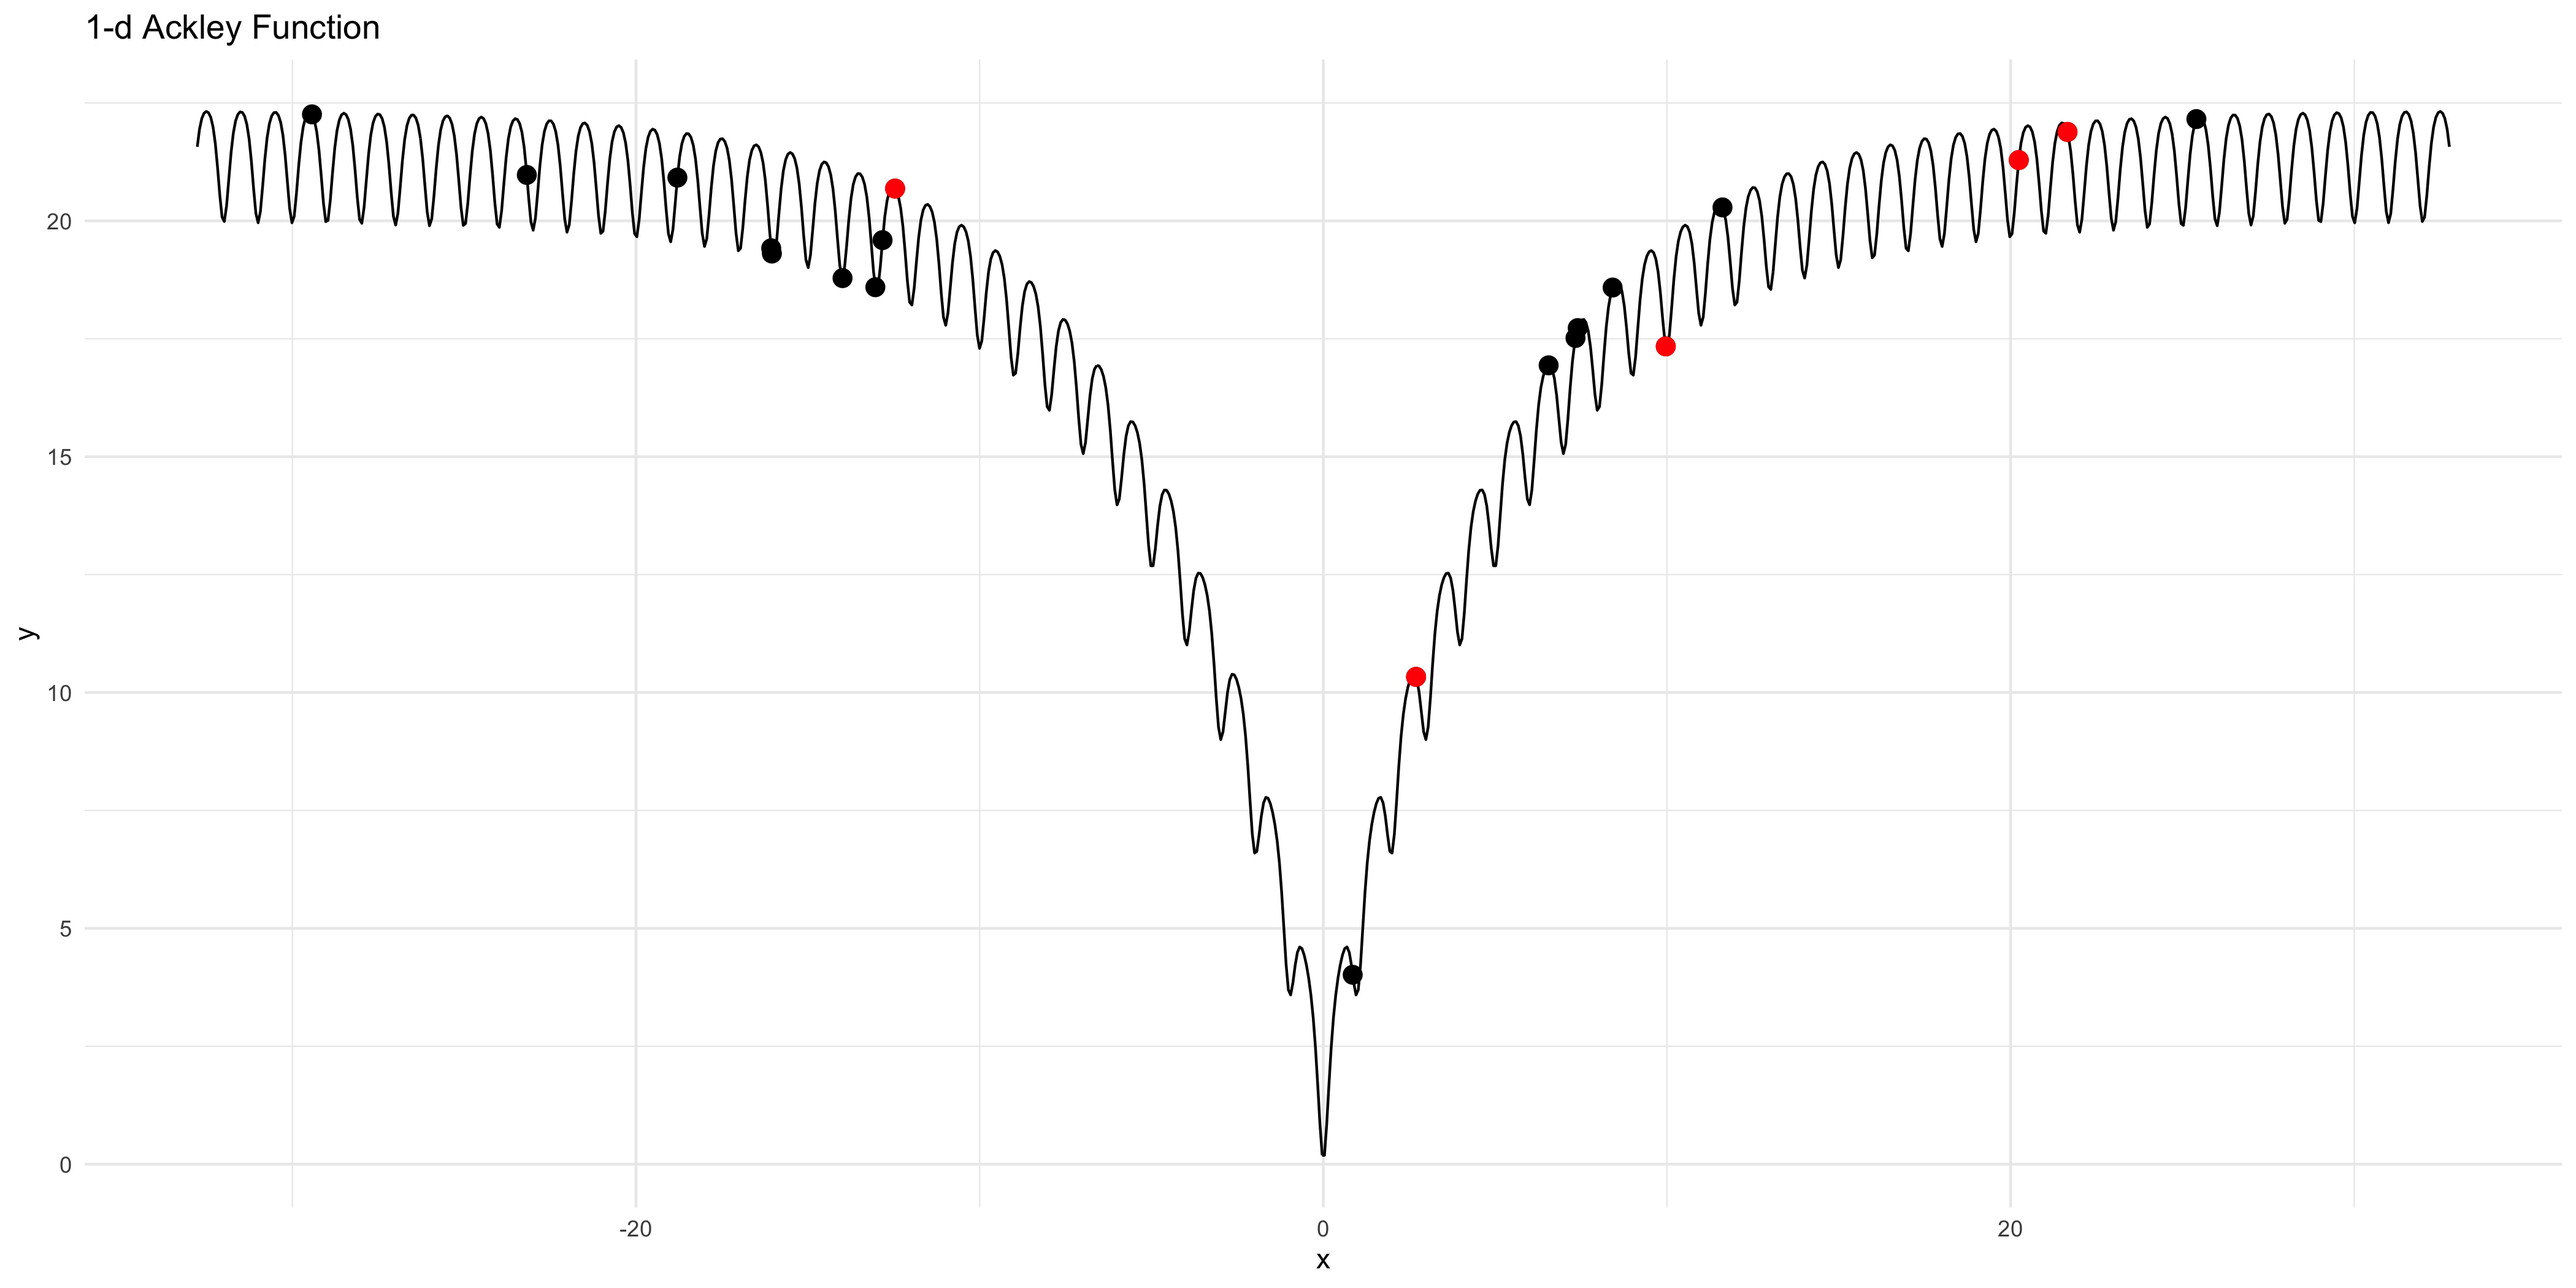
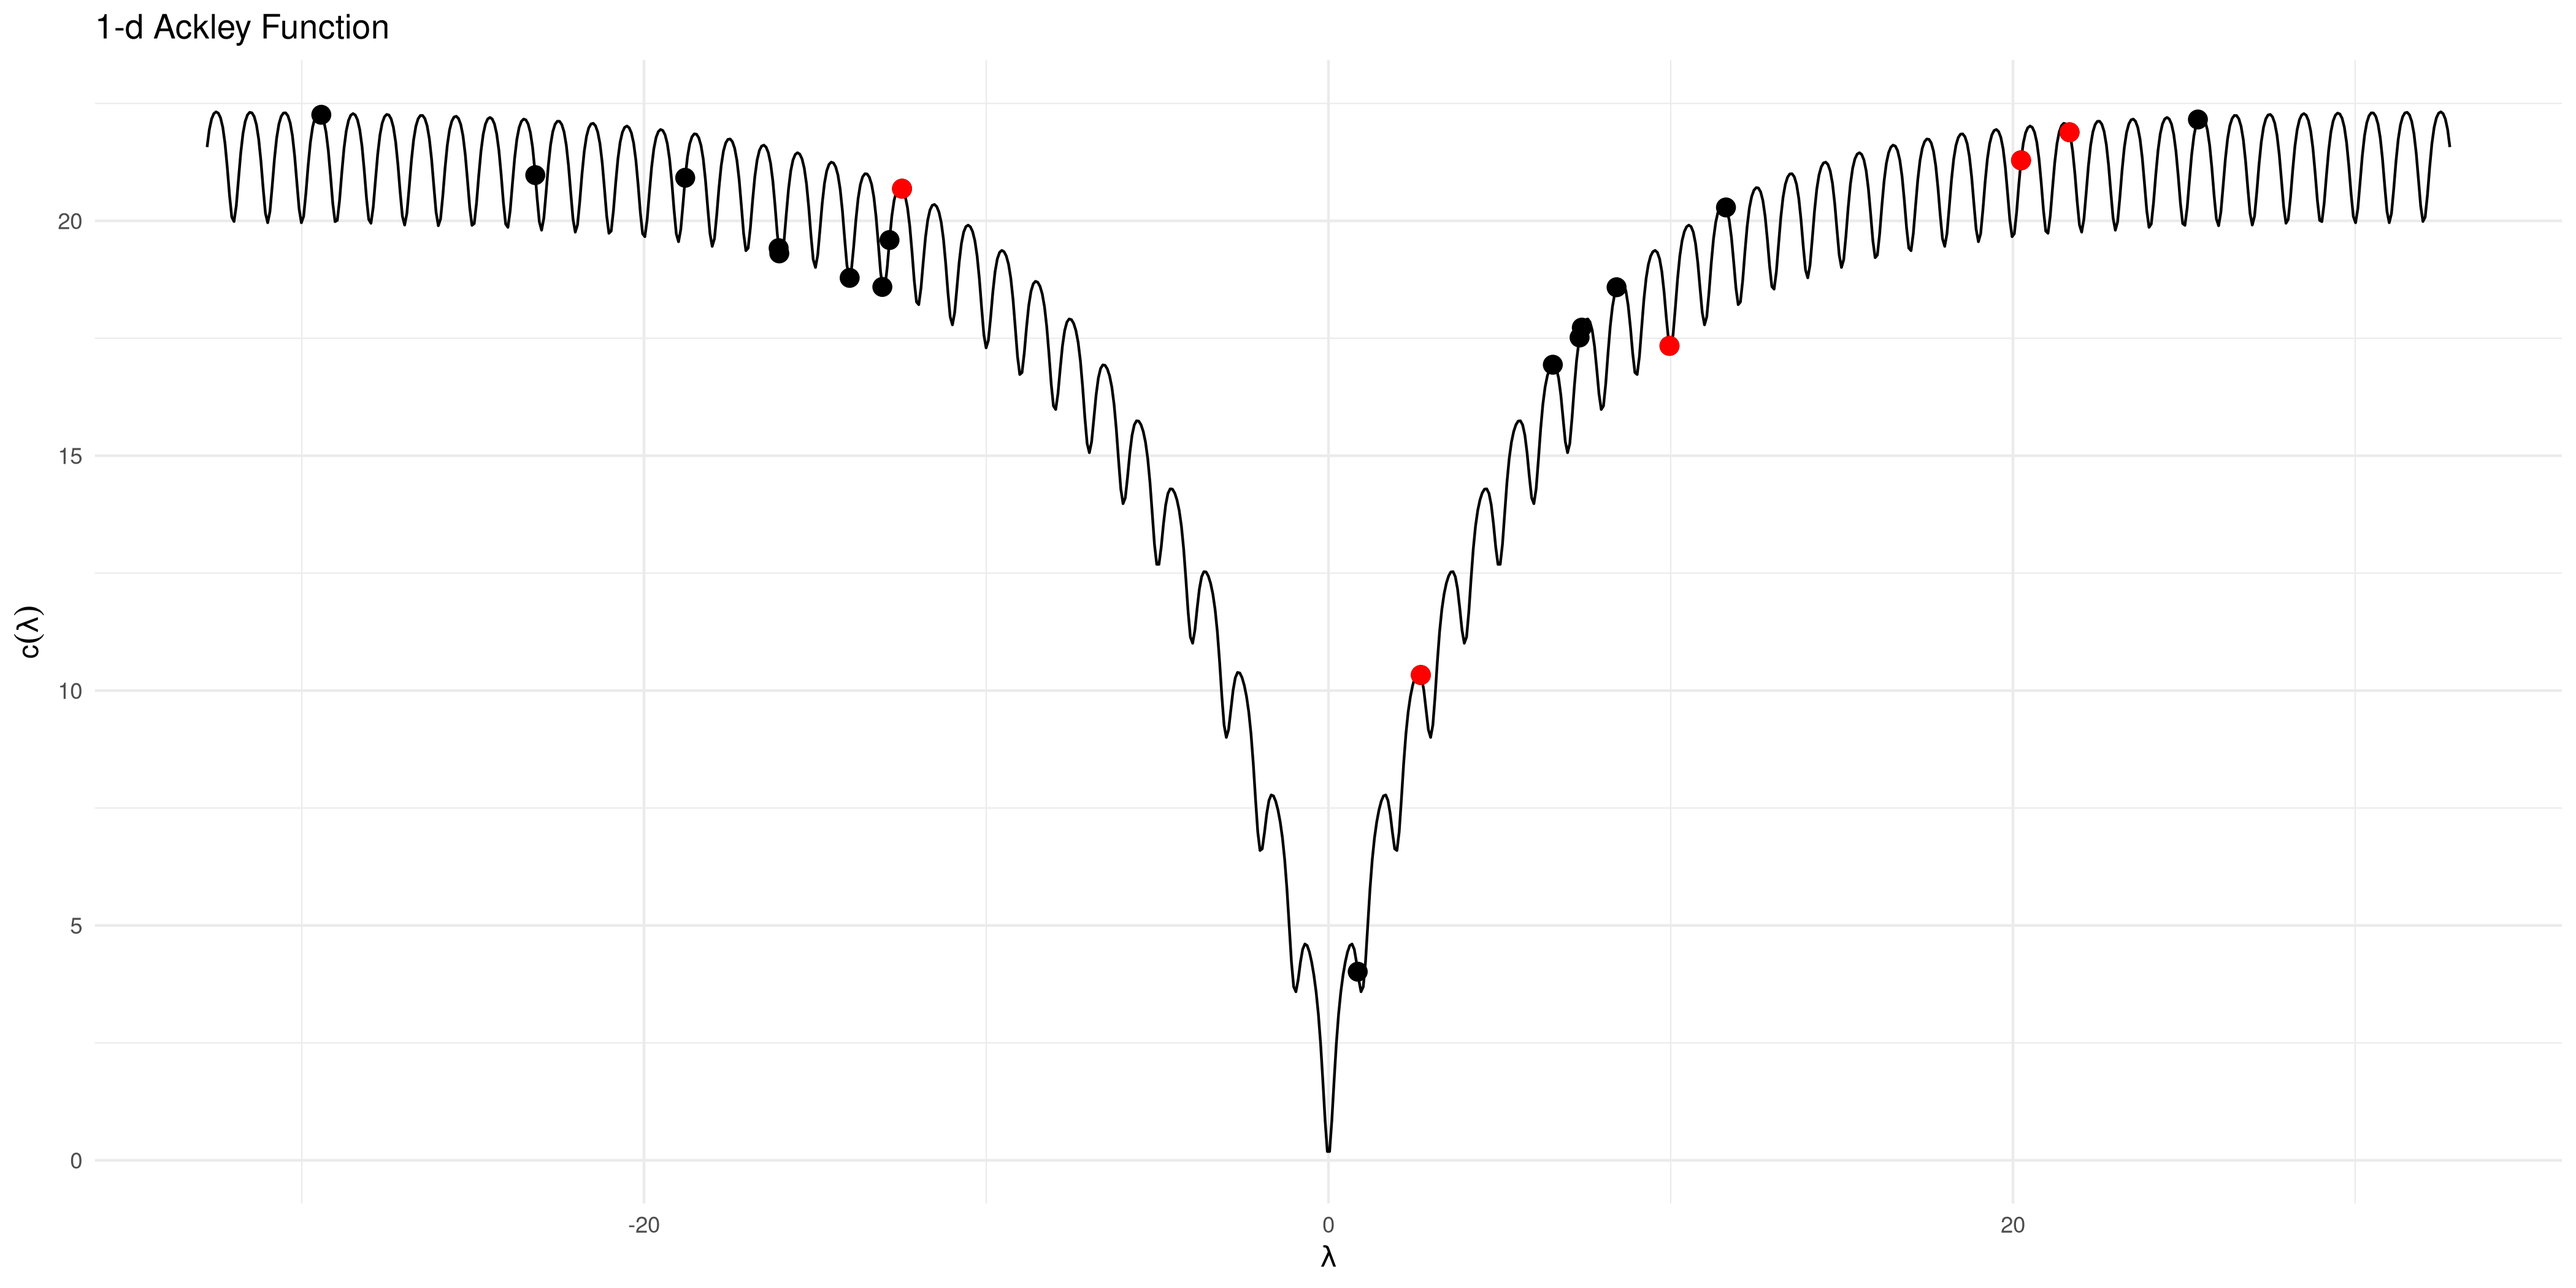
notation lambda

diff --git a/w04_hpo_basics/t04_hpo.tex b/w04_hpo_basics/t04_hpo.tex
@@ -4,6 +4,12 @@
 \newcommand{\inducer}{\mathcal{I}}
 \newcommand{\R}{\mathds{R}}
 
+%The following might look confusing but allows us to switch the notation of the optimization problem independently from the notation of the hyper parameter optimization
+\newcommand{\xx}{\conf} %x of the optimizer
+\newcommand{\xxi}[1][i]{\lambda_{#1}} %i-th component of xx (not confuse with i-th individual)
+\newcommand{\XX}{\Lambda} %search space / domain of f
+\newcommand{\f}{\cost} %objective function
+
 \newenvironment{blocki}[1] % itemize block
 {
  \begin{block}{#1}\begin{itemize}
@@ -43,7 +49,7 @@
 \begin{itemize}
 \item Given a dataset, we want to train a classification tree.
 \item We feel that a maximum tree depth of $4$ has worked out well for us previously, so we decide to set this hyperparameter to $4$.
-\item The learner ("inducer") $\inducer$ takes the input data, internally performs \textbf{empirical risk minimization}, and returns a fitted tree model $\fh(\mathbf{x}) = f(\x, \hat{\theta})$ of at most depth $\lambda = 4$ that minimizes the empirical risk.
+\item The learner ("inducer") $\inducer$ takes the input data, internally performs \textbf{empirical risk minimization}, and returns a fitted tree model $\fh(\x) = f(\x, \hat{\theta})$ of at most depth $\lambda = 4$ that minimizes the empirical risk.
 \end{itemize}
 
 % FIGURE SOURCE: https://docs.google.com/presentation/d/14xwcs5zncTjFL4hIHAprjZMmyGIPqk5vs8DS32vEAvQ/edit?usp=sharing
@@ -58,7 +64,7 @@
 \begin{itemize}
 \item We are \textbf{actually} interested in the \textbf{generalization performance} $GE\left(\fh\right)$ of the estimated model on new, previously unseen data.
 \item We estimate the generalization performance by evaluating the model $\fh$ on a test set $\datasettest$: $$
-\widehat{GE}_{\datasettest}\left(\fh\right) = \frac{1}{|\datasettest|} \sum\limits_{(\x, y) \in \datasettest} L\left(y, \fh(\mathbf{x}) \right)
+\widehat{GE}_{\datasettest}\left(\fh\right) = \frac{1}{|\datasettest|} \sum\limits_{(\x, y) \in \datasettest} L\left(y, \fh(\x) \right)
 $$
 \end{itemize}
 \vspace*{-0.6cm}
@@ -571,14 +577,14 @@ HP combinations on a multi-dimensional discretized grid
 \begin{tabular}{ c | c }
 \textbf{Definition} & \textbf{Correspondence} \\[0.05cm]
 \hline \\[0.01cm]
-solution candidate $\x\in \mathcal{S}$ & Chromosome of an individual \\[0.1cm]
-$\x_i$& $i$-th gene of chromosome\\[0.1cm]
+solution candidate $\xx \in \XX$ & Chromosome of an individual \\[0.1cm]
+$\xxi$& $i$-th gene of chromosome\\[0.1cm]
 Set of solution candidates $\mathcal{P}$ & Population \\[0.1cm]
-Objective function $f: \mathcal{S} \to \R$ & Fitness function
+Objective function $\f: \XX \to \R$ & Fitness function
 \end{tabular}
 \end{center}
 
-For hyperparameter optimization a solution candidate is a hyperparmeter configuration $\conf$ and the objective function is $\widehat{GE}_{\datasettest}\left(\inducer(\datasettrain, \conf)\right)$
+For hyperparameter optimization a solution candidate is a hyperparmeter configuration $\conf$ and the objective function is $\f(\xx) = \widehat{GE}_{\datasettest}\left(\inducer(\datasettrain, \xx)\right)$
 
 \end{frame}
 
@@ -640,9 +646,9 @@ These are demonstrated using the one-dimensional Ackley function, which we want 
 
 \vspace{0.5cm}
 
-In this case, each individual has exactly one chromosome. The chromosome is (obviously) encoded as a real number: $x_i \in \R$.
+In this case, each individual has exactly one chromosome. The chromosome is (obviously) encoded as a real number: $\xx_i \in \R$.
 
-Usually for the optimization of a function $f:\R^n \to \R$ individuals are coded as real vectors $\x_i \in \R^n$.
+Usually for the optimization of a function $\f:\R^n \to \R$ individuals are coded as real vectors $\xx_i \in \R^n$.
 
 
 \framebreak
@@ -659,7 +665,7 @@ Usually for the optimization of a function $f:\R^n \to \R$ individuals are coded
 
 \begin{frame}{Step 1: Initialize population}
 
-We start with a randomly selected population $\mathcal{P} = \{\x_1, ..., \x_\mu\}$ of the size $\mu = 20$ and rate it. The fitness function in this case is the function we want to minimize.
+We start with a randomly selected population $\mathcal{P} = \{\xx_1, ..., \xx_\mu\}$ of the size $\mu = 20$ and rate it. The fitness function in this case is the function we want to minimize.
 
 
 \begin{center}
@@ -674,18 +680,33 @@ We start with a randomly selected population $\mathcal{P} = \{\x_1, ..., \x_\mu\
 \begin{frame}[containsverbatim,allowframebreaks]{Step 2: Parent selection}
 
 
-In the first step of an iteration, $\lambda$ parents are chosen, who create offspring in the next step. %FIXME: JR: lambda is HP configuration! double notation
+In the first step of an iteration, $\lambda$ parents are chosen, who create offspring in the next step. 
 
-Possibilities for selection of parents:
-\begin{itemize}
-\item \textbf{Neutral selection: }choose individual with a probability $1/\mu$.
-\item \textbf{Fitness-proportional selection: }draw individuals with probability proportional to their fitness.
-\item \textbf{Tournament Selection: }randomly select $k$ individuals for a "Tournament Group". Of the drawn individuals, the best one (with the highest fitness value) is then chosen. In order to draw $\lambda$ individuals, the procedure must be performed $\lambda$-times.
-\end{itemize}
-\vspace*{-0.2cm}
-\begin{figure}
-\includegraphics[width = 7cm, height = 2.5cm ]{images/tournament_selection.png}
-\end{figure}
+\begin{footnotesize}
+    \textbf{Note:} Do not confuse the hyperparameters setting $\conf$ (bold) with the EA parameter $\lambda$.    
+\end{footnotesize}
+
+\begin{columns}
+\begin{column}{0.5\textwidth}
+  
+  Possibilities for selection of parents:
+
+  \begin{itemize}
+    \item \textbf{Neutral selection: }choose individual with a probability $1/\mu$.
+    \item \textbf{Fitness-proportional selection: }draw individuals with probability proportional to their fitness.
+  \end{itemize}
+\end{column}%
+\begin{column}{0.5\textwidth}
+  \begin{itemize}
+    \item \textbf{Tournament Selection: }randomly select $k$ individuals for a "Tournament Group". Of the drawn individuals, the best one (with the highest fitness value) is then chosen. In order to draw $\lambda$ individuals, the procedure must be performed $\lambda$-times.
+  \end{itemize}
+
+  \begin{figure}
+    \includegraphics[width = \linewidth]{images/tournament_selection.png}
+  \end{figure}
+
+\end{column}
+\end{columns}
 
 \framebreak
 
@@ -714,25 +735,25 @@ Recombination and mutation are not always performed both, sometimes only recombi
 
 \begin{frame}{Recombination for numeric representations}
 
-Two individuals $\x, \tilde\x \in \R^n$ in numerical representation can be recombined as follows:
+Two individuals $\xx, \tilde\xx \in \R^n$ in numerical representation can be recombined as follows:
 
 \begin{itemize}
 \item \textbf{Uniform crossover}: choose gene $i$ with probability $p$ of 1st parent and probability $1-p$ of 2nd parent.
-\item \textbf{Intermediate recombination}: new individual is created from the mean value of two parents $\frac{1}{2}(\x + \tilde\x)$
+\item \textbf{Intermediate recombination}: new individual is created from the mean value of two parents $\frac{1}{2}(\xx + \tilde\xx)$
 \item \textbf{Simulated Binary Crossover (SBX)}: generate \textbf{two offspring} based on
 
 $$
-\bar\x \pm \frac{1}{2} \beta (\tilde\x - \x)
+\bar\xx \pm \frac{1}{2} \beta (\tilde\xx - \xx)
 $$
 
-with $\bar\x = \frac{1}{2} (\x + \tilde\x)$.
+with $\bar\xx = \frac{1}{2} (\xx + \tilde\xx)$.
 \end{itemize}
 
 \end{frame}
 
 \begin{frame}{Recombination for bit strings}
 
-  For example, two individuals $\x, \tilde\x \in \{0, 1\}^n$ encoded as bit strings can be recombined as follows:
+  For example, two individuals $\xx, \tilde\xx \in \{0, 1\}^n$ encoded as bit strings can be recombined as follows:
 
   \begin{itemize}
   \item \textbf{1-point crossover}: select crossover $k \in \{1, ..., n - 1\}$ randomly and select the first $k$ bits from 1st parent, the last $n-k$ bits from 2nd parent.
@@ -768,10 +789,10 @@ with $\bar\x = \frac{1}{2} (\x + \tilde\x)$.
 
   \end{frame}
 \begin{frame}[containsverbatim,allowframebreaks]{Mutation for numeric representations}
-  \textbf{Mutation:} individuals are changed, for example for $\x \in \R^n$
+  \textbf{Mutation:} individuals are changed, for example for $\xx \in \R^n$
   \begin{itemize}
-  \item \textbf{Uniform mutation:} choose a random gene $x_i$ and replace it with a value uniformly distributed (within the feasible range).
-  \item \textbf{Gauss mutation}: $\tilde\x = \x \pm \sigma \mathcal{N}(0, \boldsymbol{I})$
+  \item \textbf{Uniform mutation:} choose a random gene $\xxi$ and replace it with a value uniformly distributed (within the feasible range).
+  \item \textbf{Gauss mutation}: $\tilde\xx = \xx \pm \sigma \mathcal{N}(0, \boldsymbol{I})$
   \item \textbf{Polynomial mutation:} polynomial distribution instead of normal distribution
   \begin{center}
   \begin{figure}
@@ -782,9 +803,9 @@ with $\bar\x = \frac{1}{2} (\x + \tilde\x)$.
    \framebreak
   More exact:
   $$
-  {\tilde x_{i}} = x_{i} + (x_{i,upper} - x_{i,lower}) \delta_{i}
+  {\tilde \xxi} = \xxi + (\xxi[i,\text{upper}] - \xxi[i,\text{lower}]) \delta_{i}
   $$
-  with $x_{i,upper} (x_{i,lower})$ as upper (lower) bound for $x_{i}$.
+  with $\xxi[i,\text{upper}]$ ($\xxi[i,\text{lower}]$) as upper (lower) bound for $\xxi$.
   $\delta_{i}$ results as:
   \footnotesize
   $$
@@ -794,7 +815,7 @@ with $\bar\x = \frac{1}{2} (\x + \tilde\x)$.
   1 - [2(1-r_{i})+2(r_{i}-\frac{1}{2})(1-\delta)^{\eta_{m}+1}]^{\frac{1}{\eta_{m} +1}}, &  \text{else.}
   \end{cases}
   $$
-  with  $\delta = \frac{min\{(x_{i} - x_{i,lower}), (x_{i,upper}-x_{i})\}}{x_{i,upper} - x_{i,lower}}$.
+  with  $\delta = \frac{min\{(x_{i} - \xxi[i,\text{upper}]), (\xxi[i,\text{upper}]-\xxi)\}}{\xxi[i,\text{upper}] - \xxi[i,\text{upper}]}$.
   \normalsize
   \vspace{0.5cm}
   Here $r_{i} \in [0,1]$ is a uniformly distributed number, $\eta_{m}$ is the distribution index of the mutation and is chosen by the user.\\
@@ -810,7 +831,7 @@ with $\bar\x = \frac{1}{2} (\x + \tilde\x)$.
     \end{center}
   \end{frame}
   \begin{frame}{Mutation for bit strings}
-  For example, an individual $\x \in \{0, 1\}^n$ encoded as a bit string can be mutated as follows:
+  For example, an individual $\xx \in \{0, 1\}^n$ encoded as a bit string can be mutated as follows:
   \vspace{0.5cm}
   \textbf{Mutation:}
   \begin{itemize}
